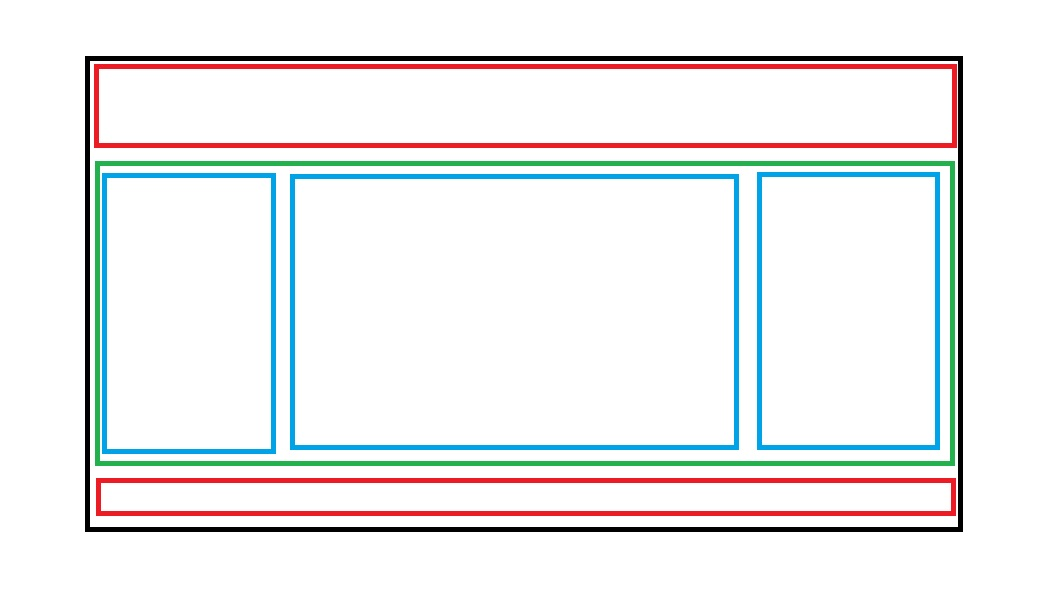
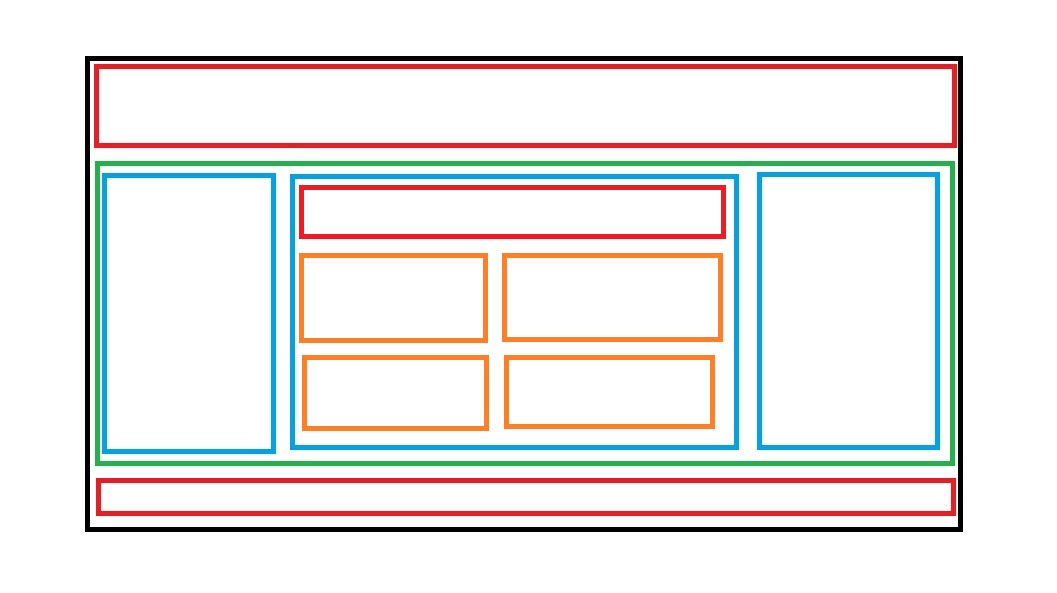
29th March 2022 - Class

Changed region(s): [[0.281, 0.3035, 0.6868, 0.7285]]

diff --git a/css/layout.css b/css/layout.css
@@ -32,6 +32,7 @@ body {
     background-color: rebeccapurple;
     /* display: inline-block; */
     float: left;
+    
 }
 .main_center {
     width: 50%;
@@ -47,6 +48,89 @@ body {
     /* display: inline-block; */
     float: left;
 }
+
+.content_heading {
+    width: calc(100% - 60px);
+    height: calc(20% - 60px);
+    padding: 20px;
+    margin: 10px;
+    background-color: coral;
+    
+    /* display: none; */
+    /* visibility: hidden;
+    opacity: 0; */
+}
+
+.content_box {
+    /* width: 40%; */
+    width: calc(50% - 60px);
+    height: calc(40% - 60px);
+    background-color: #00ffff;
+    float: left;
+    /* border-width: 5px;
+    border-style: solid;
+    border-color: darkgreen; */
+    border:5px solid darkgreen;
+    /* margin-left: 5px;
+    margin-right: 10px;
+    margin-top: 15px;
+    margin-bottom: 20px; */
+    margin: 10px 10px 10px 10px;
+    /* margin: top right bottom left; */
+    /* margin - start from top and go clockwise */
+    /* margin: 5px;
+    margin: 5px 10px; */
+    /* margin: 5px 10px 15px; */
+    padding: 15px 15px 15px 15px;
+    background-image: url('../images/flower1.jpg');
+    background-size: cover;
+    background-repeat: no-repeat;
+    opacity: 0.5;
+}
+
+.content_box div {
+    color: white;
+}
+
+.content_box > div {
+    color: red;
+}
+
+.main_right ul {
+    list-style-type: none;
+    background: #00ffff;
+}
+.main_right ul li {
+    border:1px solid #ff00aa;
+    padding: 10px;
+    margin: 10px;
+}
+.main_right ul li:first-child {
+    font-weight: bold;
+    color: red;
+}
+.main_right ul li:last-child {
+    text-decoration: underline;
+    color: blue;
+}
+.main_right ul li:nth-child(2n) {
+    font-size: 20px;
+}
+.main_right ul li:nth-child(2n+1) {
+    font-size: 30px;
+    font-style: italic;
+}
+.main_right ul li:nth-child(3) {
+    font-weight: bold;
+    color: green;
+    text-shadow: 10px 10px 10px red;
+}
+
+/* 1st child - bold - red
+last child  - underline and blue
+even child - font size 20px
+odd child - font size 20px and text italics
+3rd child - bold green, text-shadow */
 
 /* 16px - 1 rem */
 /* gap, width, height, margin padding - px, rem/em, %, 100vh */

diff --git a/layout.html b/layout.html
@@ -12,10 +12,48 @@
                 Left Side
             </div>
             <div class="main_center">
-                Main center
+                <div class="content_heading">
+                    Content Heading
+                </div>
+                <div class="content_box">
+                    <div>Content Box
+                        <div>Inner Content Box</div>
+                    </div>
+                    <div>Content Box</div>
+                    <div>Content Box</div>
+                </div>
+                <div class="content_box">
+                    <div>Content Box
+                        <div>Inner Content Box
+                            <div>Inner Inner Content Box</div>
+                        </div>
+                    </div>
+                    <div>Content Box</div>
+                    <div>Content Box</div>
+                </div>
+                <div class="content_box">
+                    <div>Content Box
+                        <div>Inner Content Box</div>
+                    </div>
+                    <div>Content Box</div>
+                    <div>Content Box</div>
+                </div>
+                <div class="content_box">
+                    <div>Content Box
+                        <div>Inner Content Box</div>
+                    </div>
+                    <div>Content Box</div>
+                    <div>Content Box</div>
+                </div>
             </div>
             <div class="main_right">
-                Right Side
+                <ul>
+                    <li>Tata</li>
+                    <li>Honda</li>
+                    <li>Hyundai</li>
+                    <li>Maruti</li>
+                    <li>Mahindra</li>
+                </ul>
             </div>
         </div>
         <div class="footer">
@@ -24,6 +62,8 @@
     </body>
 </html>
 
+
+<!-- Box Model - CSS -->
 
 <!-- Nav - Menu, Menu Bar
 Aside, Article, 
